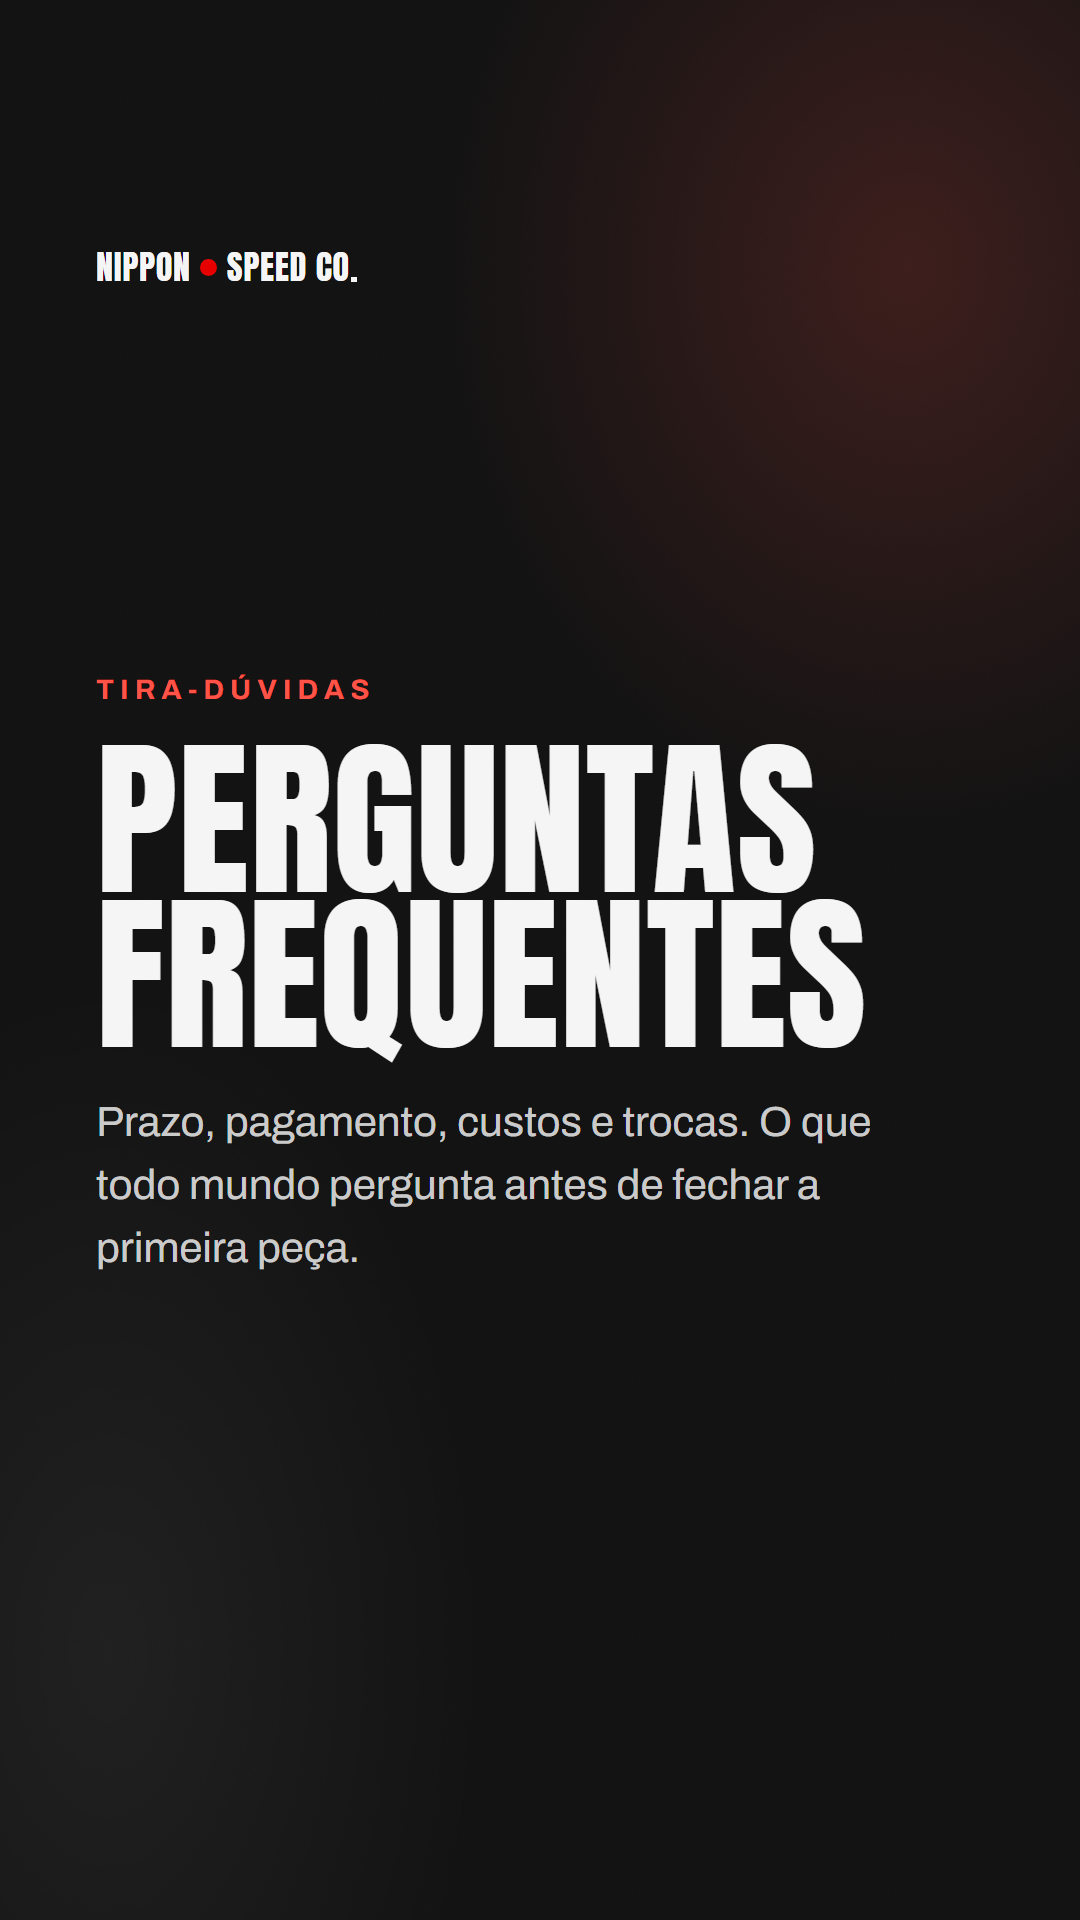
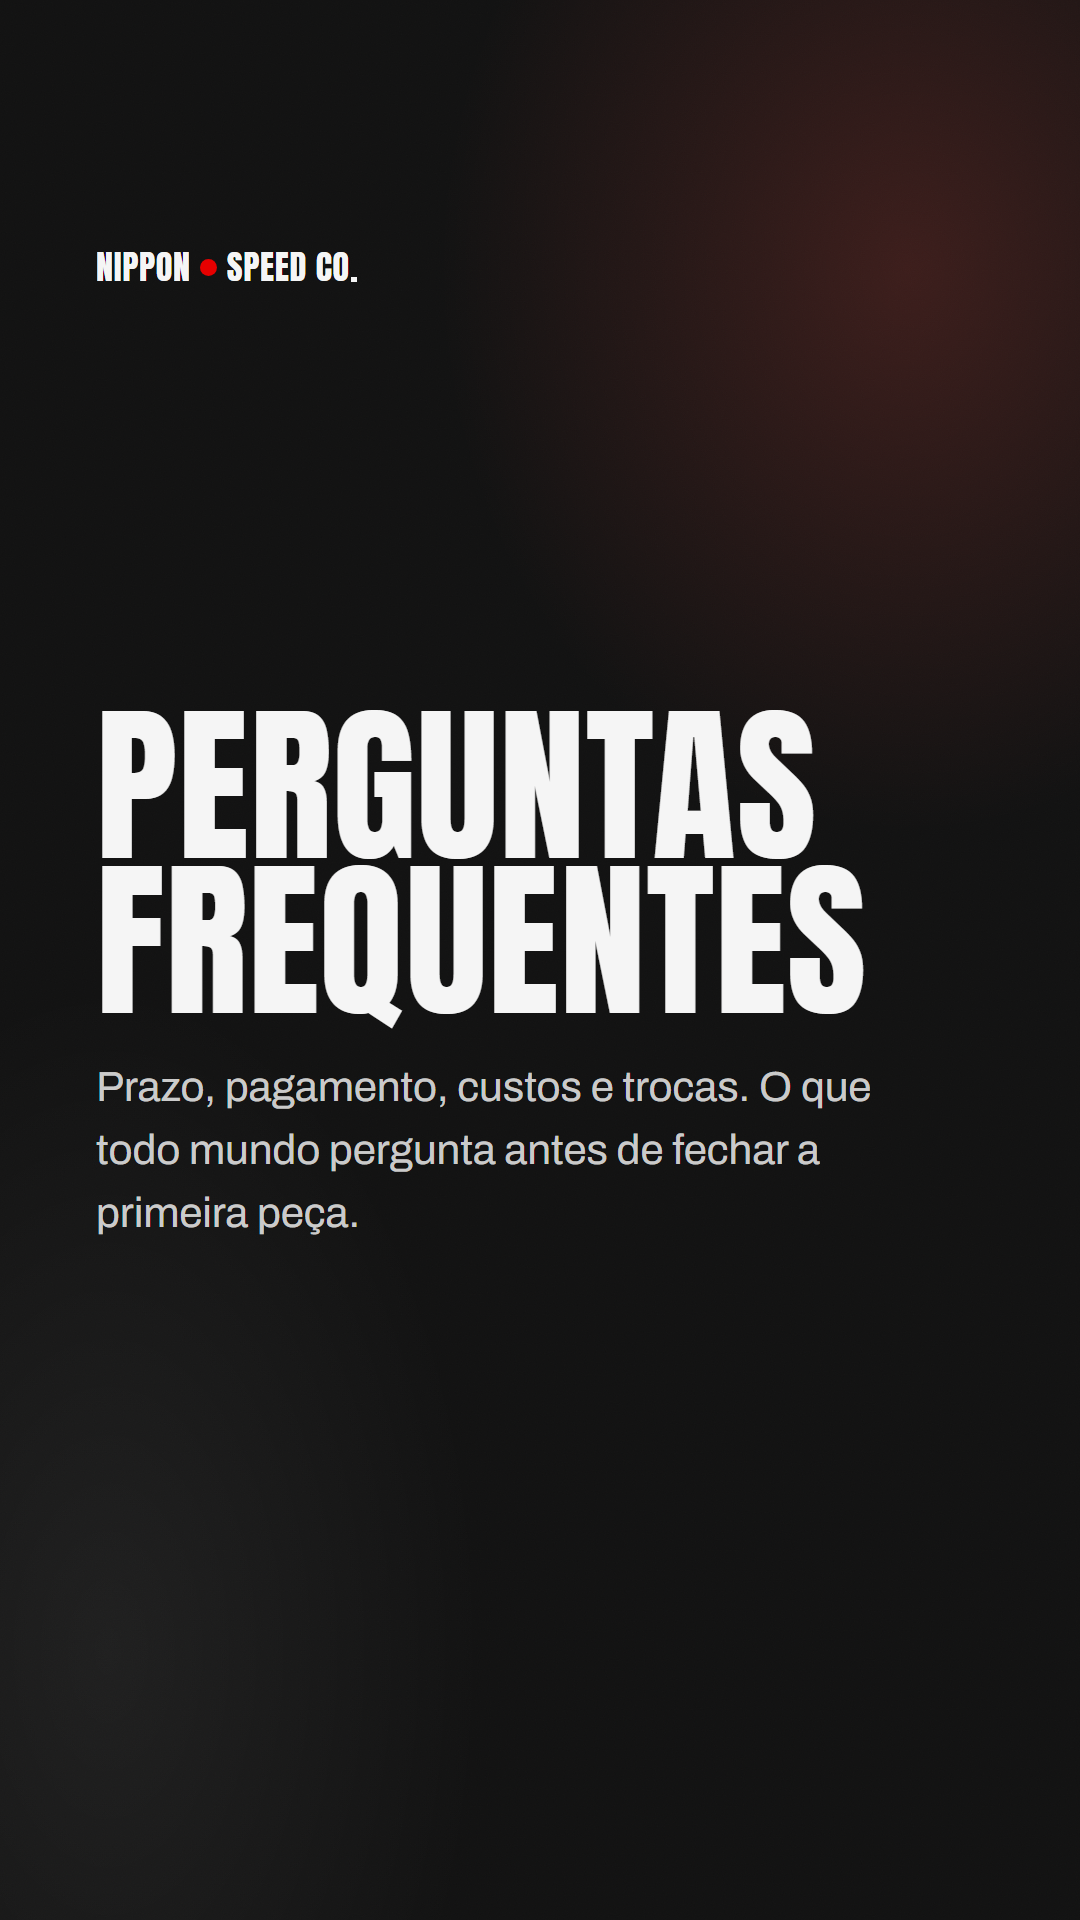
docs: ajustes do destaque de FAQ pedidos pelo Caio
Copy mais formal + re-render das telas.

Changed region(s): [[0.0917, 0.3438, 0.825, 0.6562]]

diff --git a/marca/conteudo/destaques/faq/destaque.html b/marca/conteudo/destaques/faq/destaque.html
@@ -119,7 +119,6 @@ h1,h2{ font-family:"Anton", sans-serif; font-weight:400; margin:0; text-transfor
       <span class="brandline-txt">Nippon<span class="lg-disc"></span>Speed Co<span class="lg-sq"></span></span>
     </div>
     <div class="cover-mid">
-      <p class="eyebrow eyebrow-bright">Tira-dúvidas</p>
       <h1 class="cover-title">Perguntas<br/>frequentes</h1>
       <p class="cover-sub">Prazo, pagamento, custos e trocas. O que todo mundo pergunta antes de fechar a primeira peça.</p>
     </div>
@@ -136,8 +135,8 @@ h1,h2{ font-family:"Anton", sans-serif; font-weight:400; margin:0; text-transfor
     </div>
     <div class="q-mid">
       <p class="eyebrow">Prazo</p>
-      <h2 class="q-title">Quanto tempo<br/>leva pra chegar?</h2>
-      <p class="q-body">Depois que sai do Japão, <b>de 20 a 40 dias em média.</b> Quando a encomenda chega no nosso escritório em Mogi das Cruzes, você retira com a gente ou manda por Correios ou transportadora.</p>
+      <h2 class="q-title">Quanto tempo<br/>leva para chegar?</h2>
+      <p class="q-body">Após a saída do Japão, <b>de 20 a 40 dias em média.</b> Quando a encomenda chega em nosso escritório em Mogi das Cruzes, é possível retirar diretamente conosco ou optar por um envio via Correios ou transportadora.</p>
     </div>
     <div class="dots" aria-hidden="true"><span class="dot on"></span><span class="dot"></span><span class="dot"></span><span class="dot"></span></div>
   </div>
@@ -153,7 +152,7 @@ h1,h2{ font-family:"Anton", sans-serif; font-weight:400; margin:0; text-transfor
     <div class="q-mid">
       <p class="eyebrow">Pagamento</p>
       <h2 class="q-title">Preciso<br/>pagar antes?</h2>
-      <p class="q-body">Sim. A gente só encomenda a peça depois que o pagamento entra. Aceitamos <b>Pix, débito ou crédito em até 12x</b> pelo Mercado Pago.</p>
+      <p class="q-body">Sim. Só efetuamos a encomenda após o pagamento do item. Aceitamos <b>Pix, cartão de débito ou cartão de crédito em até 12x</b> via Mercado Pago.</p>
     </div>
     <div class="dots" aria-hidden="true"><span class="dot"></span><span class="dot on"></span><span class="dot"></span><span class="dot"></span></div>
   </div>
@@ -169,7 +168,7 @@ h1,h2{ font-family:"Anton", sans-serif; font-weight:400; margin:0; text-transfor
     <div class="q-mid">
       <p class="eyebrow">Custos</p>
       <h2 class="q-title">Vou pagar<br/>algo a mais?</h2>
-      <p class="q-body">Só o envio do nosso escritório em SP até o seu endereço. <b>Frete internacional e impostos já entram no valor anunciado</b>, do Japão até Mogi das Cruzes. Nada de conta surpresa depois.</p>
+      <p class="q-body">Somente o envio do nosso escritório no Brasil até o seu endereço. Todos os custos como frete internacional e impostos <b>ficam por nossa conta!</b></p>
     </div>
     <div class="dots" aria-hidden="true"><span class="dot"></span><span class="dot"></span><span class="dot on"></span><span class="dot"></span></div>
   </div>
@@ -185,7 +184,7 @@ h1,h2{ font-family:"Anton", sans-serif; font-weight:400; margin:0; text-transfor
     <div class="q-mid">
       <p class="eyebrow">Trocas</p>
       <h2 class="q-title">Posso trocar<br/>ou devolver?</h2>
-      <p class="q-body">Não. As peças são antigas e únicas, então <b>não fazemos troca nem devolução.</b> Por isso cada item vai com descrição e fotos fiéis ao estado real: dá pra conferir tudo com calma antes de fechar.</p>
+      <p class="q-body">Devido à natureza de nossas peças, muitas delas antigas ou únicas, <b>não realizamos trocas ou devoluções.</b> Por isso cada item vai com fotos reais e fiéis ao estado real. Vale ressaltar que nunca tivemos problemas em relação a isso!</p>
     </div>
     <div class="dots" aria-hidden="true"><span class="dot"></span><span class="dot"></span><span class="dot"></span><span class="dot on"></span></div>
   </div>
@@ -200,14 +199,11 @@ h1,h2{ font-family:"Anton", sans-serif; font-weight:400; margin:0; text-transfor
       <span class="brandline-txt">Nippon<span class="lg-disc"></span>Speed Co<span class="lg-sq"></span></span>
     </div>
     <div class="cover-mid">
-      <p class="eyebrow eyebrow-bright">Ficou alguma dúvida?</p>
-      <h2 class="cover-title cta-title">Pergunta<br/>no grupo</h2>
-      <p class="cover-sub">É lá que as peças aparecem e onde a gente responde. Peça é única: quando some, some.</p>
+      <p class="eyebrow eyebrow-bright">Ficou com alguma dúvida?</p>
+      <h2 class="cover-title cta-title">Entre em<br/>contato<br/>conosco</h2>
+      <p class="cover-sub">Estamos à disposição todos os dias no WhatsApp</p>
     </div>
-    <div class="cta-foot">
-      <span class="cta-pill">Toca no link do grupo</span>
-      <span class="cta-handle">@nipponspeedco</span>
-    </div>
+    <div></div>
   </div>
 </section>
 

diff --git a/marca/conteudo/destaques/faq/README.md b/marca/conteudo/destaques/faq/README.md
@@ -15,7 +15,7 @@ status: pronto para subir
 1. Publica `tela-1` … `tela-6` como stories, na ordem.
 2. Cria o destaque "FAQ" e adiciona os 6.
 3. Capa do destaque → `capa.png` (o app recorta o círculo no centro; a arte já é só o ícone centrado).
-4. Na `tela-6`, cola o **sticker de link** do grupo: `https://chat.whatsapp.com/GvYbIleIhNu2S7mG6AsJMI`.
+4. Na `tela-6`, adiciona o **botão nativo do Instagram** (contato/WhatsApp) — o CTA do grupo saiu da arte de propósito (Caio, 15/07).
 
 ## Roteiro das telas
 1. **Abertura** — "Perguntas frequentes" (fundo escuro).
@@ -23,7 +23,7 @@ status: pronto para subir
 3. **Pagamento** — antecipado; Pix, débito ou crédito em até 12x (Mercado Pago).
 4. **Custos** — frete internacional e impostos já no valor anunciado; o cliente só paga o envio de Mogi até ele.
 5. **Trocas** — não há troca nem devolução; a contrapartida é descrição e foto fiéis ao estado.
-6. **CTA** — pergunta no grupo + sticker de link.
+6. **CTA** — "Entre em contato conosco" + botão nativo do Instagram (a arte não traz mais o link do grupo).
 
 ## De onde vêm as respostas
 Dado real do Caio (`briefs/2026-07-13-faq-respostas.txt`), consolidado em **`docs/logistica-mercari.md`** — que é a fonte da verdade. Se a operação mudar (prazo, forma de pagamento, política de troca), **muda lá primeiro** e depois propaga pra este destaque, pro post "Como funciona" e pra LP.
